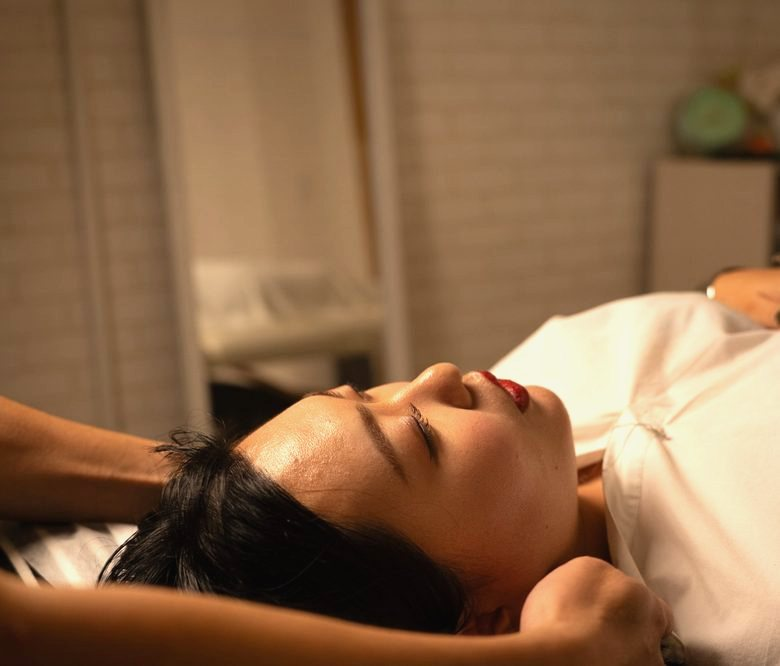
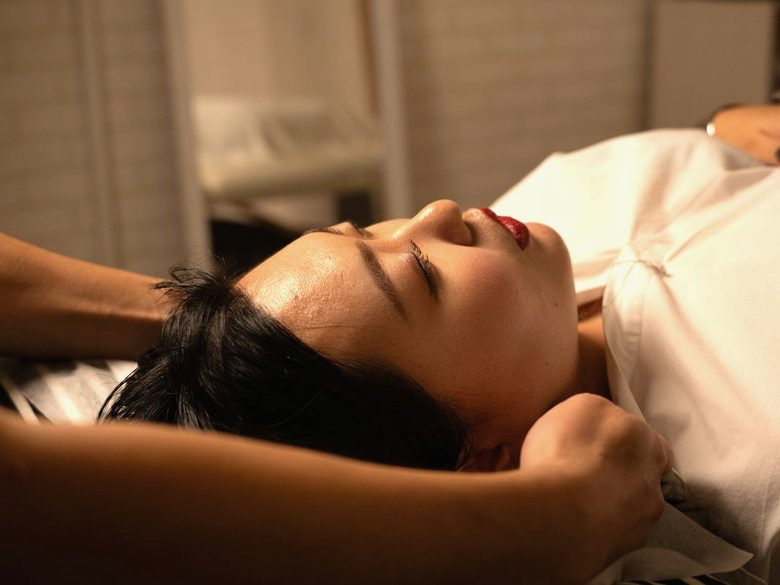
姿勢改善LP：5つの視点で5回見直し
- FV：承認済みの小見出しを戻し、説明文を外して料金とボタンを上へ。バッジに延べ11万人。写真を顔中心に切り直し
- 固定のLINEバーを最初から表示（FVと最後のボタンが見えている間だけ隠す）
- 悩みの順番を入れ替え、原因の冒頭に「意志が弱いからではありません」
- 比較図の見出しを短く、特徴の文章を短く、写真を3:2に
- お腹の項目に着替え・個室の一言、鍼の痛みに約95%（当院の実感）
- 料金枠に空きやすい時間帯、ボタン下の言葉を場所ごとに変更
- よくある質問を「何回通う？」から並べ替え、シェア画像を新しい配色で作り直し

Claude-Session: https://claude.ai/code/session_016xotFX1crAu7UbVk1hBxy1

diff --git a/shisei/index.html b/shisei/index.html
@@ -91,27 +91,30 @@
   .leaf { position: absolute; width: 96px; height: 128px; color: #DCC3B6; opacity: .55; pointer-events: none; }
   .leaf.l-fv { top: 34px; left: -18px; transform: rotate(-24deg); }
   .leaf.l-about { top: 16px; right: -16px; transform: scaleX(-1) rotate(-20deg); }
-  .leaf.l-faq { bottom: 10px; left: -20px; transform: rotate(-150deg); opacity: .4; }
+  .leaf.l-faq { top: 18px; left: -22px; transform: rotate(-28deg); opacity: .45; }
   .fv > *:not(.leaf) { position: relative; }
   .fv-top { display: flex; justify-content: space-between; align-items: center; padding: 10px 16px; font-size: 11px; color: var(--sub); }
   .fv-top .name { font-family: var(--serif); font-weight: 600; font-size: 14px; color: var(--ink); letter-spacing: .1em; }
-  .fv-catch { padding: 14px 18px 18px; text-align: center; }
+  .fv-catch { padding: 12px 18px 18px; text-align: center; }
   .fv-catch .target { display: inline-block; font-size: 13px; font-weight: 500; letter-spacing: .04em; color: var(--ink); border-bottom: 1px solid var(--coral); padding-bottom: 2px; line-height: 1.6; }
   .fv-catch h1 { margin-top: 12px; line-height: 1.3; }
   .fv-catch h1 .l1 { display: block; font-size: 31px; font-weight: 700; letter-spacing: .08em; color: var(--ink); }
   .fv-catch h1 .l2 { display: block; margin-top: 6px; font-family: var(--serif); font-weight: 600; font-size: 33px; letter-spacing: .06em; color: var(--rose); }
   .fv-photo { position: relative; }
   .fv-photo img { width: 100%; }
-  .badges { position: relative; display: flex; justify-content: center; align-items: center; margin-top: -58px; padding: 0 8px; }
-  .badge { width: 116px; height: 116px; flex: none; border-radius: 50%; background: rgba(255,255,255,.96); box-shadow: 0 2px 10px rgba(110,80,60,.12);
+  .badges { position: relative; display: flex; justify-content: center; align-items: center; margin-top: -52px; padding: 0 4px; }
+  .badge { width: 120px; height: 120px; flex: none; border-radius: 50%; background: rgba(255,255,255,.96); box-shadow: 0 2px 10px rgba(110,80,60,.12);
            display: flex; flex-direction: column; align-items: center; justify-content: center; text-align: center; }
-  .badge b { font-family: var(--serif); font-weight: 600; font-size: 19px; line-height: 1.25; letter-spacing: .04em; }
-  .badge small { margin-top: 4px; font-size: 9.5px; line-height: 1.4; color: var(--sub); letter-spacing: 0; }
+  .badge b { font-family: var(--serif); font-weight: 600; font-size: 20px; line-height: 1.25; letter-spacing: .04em; }
+  .badge small { margin-top: 4px; font-size: 10.5px; line-height: 1.4; color: var(--sub); letter-spacing: 0; }
+  .badge small.top { margin: 0 0 -2px; font-size: 11px; color: var(--ink); }
+  .badge b + small { margin-top: 3px; }
   .badges .x { flex: none; width: 22px; margin: 0 -8px; z-index: 1; color: var(--coral); font-size: 26px; font-weight: 300; text-align: center; line-height: 1; }
-  .fv-lead { margin: 22px 20px 0; text-align: center; font-size: 15px; font-weight: 500; line-height: 1.85; }
+  .fv-sub { margin-top: 12px; font-size: 15px; font-weight: 500; letter-spacing: .05em; }
+  .fv-sub b { color: var(--coral); font-weight: 700; }
 
   /* 料金の箱（Aの「初めての方限定」の箱にならう） */
-  .offer { margin: 22px 20px 18px; background: var(--white); border-radius: 10px; box-shadow: 0 3px 12px rgba(110,80,60,.12); overflow: hidden; text-align: center; }
+  .offer { margin: 24px 20px 18px; background: var(--white); border-radius: 10px; box-shadow: 0 3px 12px rgba(110,80,60,.12); overflow: hidden; text-align: center; }
   .offer-hd { background: var(--coral); color: #fff; font-weight: 700; font-size: 15px; letter-spacing: .08em; padding: 7px 10px; }
   .offer-bd { padding: 12px 14px 14px; }
   .offer .course { font-size: 13px; font-weight: 500; }
@@ -141,13 +144,14 @@
   .cause-photo { position: relative; margin-top: 26px; }
   .cause-body { position: relative; margin: -46px 18px 0; background: var(--base); padding: 26px 20px 26px; }
   .cause-body p + p { margin-top: 1em; }
+  .cause-body .lead { font-family: var(--serif); font-weight: 600; font-size: 17px; line-height: 1.7; letter-spacing: .04em; padding-bottom: 14px; border-bottom: 1px solid #E3D2C9; }
+  .cause-body .lead + p { margin-top: 14px; }
   .cause-body .em { font-weight: 700; }
   .cause-body .em span { color: var(--coral); }
 
   /* Aの「整体前／整体後」にならった比較図 */
-  .compare { padding: 44px 18px 8px; }
-  .compare .ttl { font-size: 21px; }
-  .cmp { display: grid; grid-template-columns: 1fr 1fr; gap: 10px; margin-top: 22px; }
+  .compare { padding: 40px 18px 8px; }
+  .cmp { display: grid; grid-template-columns: 1fr 1fr; gap: 10px; margin-top: 16px; }
   .cmp-card { background: var(--white); border: 1px solid #EADFD9; border-radius: 8px; padding: 12px 10px 14px; }
   .cmp-card .lbl { display: block; text-align: center; font-weight: 700; font-size: 14px; letter-spacing: .04em; padding: 3px 0; border-radius: 3px; color: #fff; background: var(--gray); }
   .cmp-card.after .lbl { background: linear-gradient(135deg, var(--gold1), var(--gold2)); }
@@ -179,16 +183,17 @@
   .trio .c2 { width: 124px; height: 124px; }
   .trio .x { flex: none; width: 20px; margin: 0 -7px; z-index: 2; color: var(--coral); font-size: 26px; font-weight: 300; text-align: center; line-height: 1; }
   .about .intro { margin: 18px 22px 0; text-align: center; font-size: 15px; line-height: 1.95; }
-  .feat { margin-top: 40px; }
+  .feat { margin-top: 36px; }
   .feat-photo { width: 88%; }
   .feat.rev .feat-photo { margin-left: auto; }
-  .feat-photo img { width: 100%; aspect-ratio: 4 / 3; object-fit: cover; }
-  .feat-photo img.tall { object-position: 50% 35%; }
+  .feat-photo img { width: 100%; aspect-ratio: 3 / 2; object-fit: cover; }
+  .feat-photo img.tall { object-position: 50% 30%; }
   .feat-box { position: relative; width: 86%; margin: -40px 0 0 auto; background: var(--white); padding: 22px 20px 24px; }
   .feat.rev .feat-box { margin: -40px auto 0 0; }
   .feat-box .tag { display: inline-block; background: var(--base2); color: var(--sub); font-size: 12.5px; font-weight: 500; padding: 1px 10px; letter-spacing: .06em; }
   .feat-box h3 { margin-top: 8px; font-size: 18px; line-height: 1.6; letter-spacing: .05em; }
   .feat-box p { margin-top: 10px; font-size: 14px; line-height: 1.95; }
+  .feat-box .aside { margin-top: 10px; padding: 8px 12px; background: var(--base); font-size: 12.5px; line-height: 1.7; }
   .feat-box .key { position: absolute; right: -6px; top: -18px; width: 66px; height: 66px; border-radius: 50%; background: linear-gradient(135deg, var(--gold1), var(--gold2)); color: #fff; display: flex; align-items: center; justify-content: center; text-align: center; font-size: 11px; font-weight: 700; line-height: 1.35; letter-spacing: .02em; }
 
   /* ⑤ 初回60分の流れ */
@@ -268,7 +273,8 @@
   .price .how ol { display: grid; grid-template-columns: 1fr 12px 1fr 12px 1fr; align-items: center; margin-top: 6px; }
   .price .how li { background: var(--base2); border-radius: 6px; padding: 6px 2px; font-size: 12px; font-weight: 700; line-height: 1.45; }
   .price .how li.ar { background: none; padding: 0; width: 0; height: 0; border-top: 6px solid transparent; border-bottom: 6px solid transparent; border-left: 7px solid var(--coral); justify-self: center; }
-  .price .cta { margin-top: 20px; padding: 0; }
+  .price .cta { margin-top: 18px; padding: 0; }
+  .price .avail { margin-bottom: 12px; font-size: 12.5px; line-height: 1.7; color: var(--sub); }
   .price .btn { font-size: 15.5px; letter-spacing: .02em; padding-left: 14px; }
 
   /* ⑨ 院長 */
@@ -352,18 +358,18 @@
     <div class="fv-catch">
       <p class="target">デスクワークで、猫背・巻き肩が戻ってしまう方へ</p>
       <h1><span class="l1">意識しなくても、</span><span class="l2">背すじがラクな体へ。</span></h1>
+      <p class="fv-sub">背中だけでなく、<b>お腹まわり</b>から整えます。</p>
     </div>
     <figure class="fv-photo">
-      <img src="/shisei/images/fv.jpg" alt="施術台で、院長に首と頭を支えられてくつろいでいる女性" width="780" height="666">
+      <img src="/shisei/images/fv.jpg" alt="施術台で、院長に首と頭を支えられてくつろいでいる女性" width="780" height="585" fetchpriority="high">
     </figure>
     <div class="badges" aria-label="博多Hakaseの3つの特徴">
-      <div class="badge"><b>国家資格</b><small>鍼灸師歴18年の<br>院長が担当</small></div>
+      <div class="badge"><small class="top">延べ</small><b>11万人</b><small>国家資格・歴18年<br>の院長が担当</small></div>
       <span class="x" aria-hidden="true">×</span>
-      <div class="badge"><b>鍼と<br>整体</b><small>両方できるから<br>選ばなくていい</small></div>
+      <div class="badge"><b>鍼と<br>整体</b><small>その日の体に<br>合わせて組み合わせ</small></div>
       <span class="x" aria-hidden="true">×</span>
-      <div class="badge"><b>お腹<br>から</b><small>背中だけでなく<br>お腹まわりも整える</small></div>
+      <div class="badge"><b>お腹<br>から</b><small>姿勢の相談でも<br>お腹を確かめる</small></div>
     </div>
-    <p class="fv-lead">背中を伸ばしても戻ってしまうのは、<br>お腹まわりがかたいままだから<br>かもしれません。</p>
     <div class="offer">
       <p class="offer-hd">はじめての方</p>
       <div class="offer-bd">
@@ -374,7 +380,7 @@
     </div>
     <div class="cta">
       <a class="btn" data-line data-cta="fv" href="#line"><svg aria-hidden="true"><use href="#i-talk"/></svg>LINEで予約・相談する</a>
-      <p class="btn-note">予約の前に、相談だけでも大丈夫です。返信は院長本人です。</p>
+      <p class="btn-note">予約の前に、相談だけでも大丈夫です。<br>返信は院長本人です。</p>
     </div>
   </section>
 
@@ -383,14 +389,14 @@
     <div class="worry-card">
       <h2 class="ttl">こんな<span class="hl">お悩み</span><br>ありませんか？</h2>
       <ul class="checks">
-        <li>写真に写った横姿にドキッとした</li>
         <li>背すじを伸ばしても、気づくと丸まっている</li>
+        <li>写真に写った横姿にドキッとした</li>
         <li>肩が前に巻いて、首が前に出ている</li>
+        <li>整体に通っても、しばらくすると戻る</li>
         <li>夕方になると、首と肩が重い</li>
         <li>反り腰で、立っていると腰がつらい</li>
-        <li>事故のあとから、首まわりの不調が抜けない</li>
         <li>産後、抱っこで背中が丸まったまま</li>
-        <li>整体に通っても、しばらくすると戻る</li>
+        <li>事故のあとから、首まわりの不調が抜けない</li>
       </ul>
     </div>
     <div class="after">
@@ -399,7 +405,7 @@
     </div>
     <div class="cta">
       <a class="btn" data-line data-cta="after-worry" href="#line"><svg aria-hidden="true"><use href="#i-talk"/></svg>姿勢の悩みをLINEで相談する</a>
-      <p class="btn-note">返信は院長本人です。</p>
+      <p class="btn-note">当てはまったものを、そのまま送ってください。</p>
     </div>
   </section>
 
@@ -408,9 +414,10 @@
     <p class="slash">伸ばしても、戻ってしまう</p>
     <h2 class="big">その原因は<br><span class="gold">“お腹まわり”</span><small>かもしれません。</small></h2>
     <figure class="cause-photo">
-      <img src="/shisei/images/kensa.jpg" alt="仰向けでお腹を指で確かめ、ペンで印をつけている様子" width="704" height="563" loading="lazy">
+      <img src="/shisei/images/kensa.jpg" alt="仰向けでお腹を指で確かめ、ペンで印をつけている様子" width="704" height="413" loading="lazy">
     </figure>
     <div class="cause-body">
+      <p class="lead">伸ばしても戻るのは、<br>意志が弱いからではありません。</p>
       <p>デスクワークやスマホで前かがみの時間が長いと、体の前側、お腹まわりが縮こまってかたくなります。</p>
       <p class="em">前側がかたいままだと、背中をいくら伸ばしても、<span>また前に引き戻されます。</span></p>
       <p>だから博多Hakaseでは、骨格だけでなく、お腹まわりから姿勢をみます。</p>
@@ -419,7 +426,7 @@
 
   <!-- Aの「整体前／整体後」にならった比較図 -->
   <section class="compare">
-    <h2 class="ttl">お腹がかたいままだと<br>こうなります</h2>
+    <p class="slash">図で見ると</p>
     <div class="cmp">
       <div class="cmp-card before">
         <span class="lbl">お腹がかたいまま</span>
@@ -468,7 +475,7 @@
   <section class="whole">
     <h2 class="ttl">首・肩・腰、<br>ひとつずつ通わなくていい。</h2>
     <div class="parts" aria-hidden="true"><span>首</span><span>肩</span><span class="on">お腹</span><span>腰</span></div>
-    <p class="txt">猫背と首のこりと腰の重さは、<br>別々の悩みに見えて、<br>つながっていることがあります。<br>60分のなかで、まとめてみます。</p>
+    <p class="txt">猫背と首のこりと腰の重さは、<br>別々の悩みに見えて、<br>つながっていることがあります。</p>
     <p class="motto">症状がいくつあっても、<br>身体はひとつ。<br>だから、すべてまとめてみます。</p>
   </section>
 
@@ -479,7 +486,7 @@
     <div class="trio">
       <div class="c c1"><img src="/shisei/images/zentai.jpg" alt="" width="704" height="880" loading="lazy"><span>全体を<br>みる</span></div>
       <span class="x" aria-hidden="true">×</span>
-      <div class="c c2"><img src="/shisei/images/kensa.jpg" alt="" width="704" height="563" loading="lazy"><span>お腹を<br>みる</span></div>
+      <div class="c c2"><img src="/shisei/images/kensa.jpg" alt="" width="704" height="413" loading="lazy"><span>お腹を<br>みる</span></div>
       <span class="x" aria-hidden="true">×</span>
       <div class="c c3"><img src="/shisei/images/seitai.jpg" alt="" width="704" height="469" loading="lazy"><span>鍼と<br>整体</span></div>
     </div>
@@ -501,6 +508,7 @@
         <span class="tag">お腹をみる</span>
         <h3>姿勢の相談でも、<br>お腹をゆるめる鍼をします</h3>
         <p>仰向けでお腹のかたさを確かめてから鍼をします。姿勢の相談でお腹？と思われるかもしれませんが、Hakaseではここから始めます。</p>
+        <p class="aside">着替えは、お客様に合わせて対応します。施術は個室です。</p>
       </div>
     </article>
 
@@ -509,7 +517,7 @@
       <div class="feat-box">
         <span class="tag">鍼と整体</span>
         <h3>ボキボキしない整体と、<br>細い鍼を組み合わせます</h3>
-        <p>筋膜を整える整体は、強い力を使いません。手技の引き出しが多いので、その日の体に合わせて選びます。鍼が苦手な方は整体だけでも受けられます（変化に時間がかかることはあります）。</p>
+        <p>筋膜を整える整体は、強い力を使いません。手技の引き出しが多いので、その日の体に合わせて選びます。</p>
       </div>
     </article>
   </section>
@@ -580,7 +588,7 @@
       <figcaption>鍼はすべて使い捨て。髪の毛より細いものから選びます。</figcaption>
     </figure>
     <div class="qa">
-      <div class="item"><b>痛くないですか？</b><p>「蚊に刺されたくらい」と言われることが多いです。その日の状態に合わせて、細い鍼から選びます。</p></div>
+      <div class="item"><b>痛くないですか？</b><p>「蚊に刺されたくらい」と言われることが多く、受けた方の約95%が「これなら大丈夫」とおっしゃいます（当院の実感です）。その日の状態に合わせて、細い鍼から選びます。</p></div>
       <div class="item"><b>衛生面が気になります</b><p>鍼はすべて使い捨てです。消毒も、しみにくい塩素系の薬剤を使っています。</p></div>
       <div class="item"><b>内出血はしますか？</b><p>100人に5人ほどです。出た場合も、10〜14日ほどで引きます。</p></div>
       <div class="item"><b>それでも、鍼がこわいです</b><p>刺さない鍼、お灸、整体だけでもできます。整体だけだと、変化に時間がかかることはあります。</p></div>
@@ -615,8 +623,9 @@
         </ol>
       </div>
       <div class="cta">
+        <p class="avail">平日の昼は比較的空いています。<br>火・水の夜は埋まりやすいので、お早めに。</p>
         <a class="btn" data-line data-book data-cta="after-price" href="#line"><svg aria-hidden="true"><use href="#i-cal"/></svg>LINEで空いている日を見る</a>
-        <p class="btn-note">保険は使えない自費の施術です。</p>
+        <p class="btn-note">日にちが決まっていなくても、<br>相談だけで大丈夫です。</p>
       </div>
     </div>
   </section>
@@ -634,8 +643,8 @@
       <span><b>国家資格</b>はり師・きゅう師</span>
     </div>
     <div class="msg">
-      <p>整骨院に通っても変わらなかった痛みが、私自身にありました。どんな症状にも向き合えるように、勉強に時間とお金をかけてきたのは、そのためです。</p>
-      <p>4人の子どもの父で、妻も施術者です。家のことや子どものことで、女性は自分の体をあと回しにしがちだと、家族を見ていて感じます。</p>
+      <p>整骨院に通っても変わらなかった痛みが、私自身にありました。だから、どんな症状にも向き合えるように、勉強に時間とお金をかけてきました。</p>
+      <p>4人の子どもの父で、妻も施術者です。家のことや子どものことで、女性は自分の体をあと回しにしがちだと、家族を見ていて感じます。ここにいる60分は、ご自分の体のことだけ考えてください。</p>
       <p>猫背だけ、腰だけ、とは考えません。気になるところは、全部まとめて教えてください。</p>
     </div>
     <div class="nots"><b>しないこと</b>痛い施術、危険な施術、望まれていない施術。施術中も、痛くないか、寒くないかを聞きながら進めます。</div>
@@ -652,14 +661,14 @@
     <h2 class="ttl">よくあるご質問</h2>
     <p class="script">Question &amp; Answer</p>
     <div class="faq-list">
-      <details><summary>妊娠中・産後でも受けられますか？</summary><p>体の状態によって変わるので、まずLINEでご相談ください。</p></details>
-      <details><summary>セルフケアは教えてもらえますか？</summary><p>はい。セルフケアと、帰るときに気をつけることもお伝えします。</p></details>
       <details><summary>何回くらい通えばいいですか？</summary><p>姿勢のクセや体の状態で変わるので、初回に体を見てから目安をお伝えします。</p></details>
       <details><summary>着替えは必要ですか？</summary><p>お客様に合わせて対応します。</p></details>
       <details><summary>鍼が苦手でも受けられますか？</summary><p>整体だけでも受けられます。</p></details>
+      <details><summary>予約の前に相談できますか？</summary><p>LINEでできます。返信は院長本人です。日にちが決まっている方は、LINEの予約カレンダーからそのまま予約できます。</p></details>
+      <details><summary>セルフケアは教えてもらえますか？</summary><p>はい。セルフケアと、帰るときに気をつけることもお伝えします。</p></details>
       <details><summary>保険は使えますか？</summary><p>使えません。自費の施術です。初回は9,800円（税込）で、追加料金はかかりません。</p></details>
       <details><summary>当日お風呂に入ってもいいですか？</summary><p>入って大丈夫です。</p></details>
-      <details><summary>予約の前に相談できますか？</summary><p>LINEでできます。返信は院長本人です。日にちが決まっている方は、LINEの予約カレンダーからそのまま予約できます。</p></details>
+      <details><summary>妊娠中・産後でも受けられますか？</summary><p>体の状態によって変わるので、まずLINEでご相談ください。</p></details>
     </div>
   </section>
 
@@ -717,7 +726,7 @@
     });
   });
 
-  // 固定バー：FVのボタンを通り過ぎたら出す。最後のボタンが見えている間は隠す
+  // 固定バー：最初から出す。FVのボタンと最後のボタンが画面に見えている間だけ隠す
   var sticky = document.querySelector(".sticky");
   var fvBtn = document.querySelector('[data-cta="fv"]');
   var finalBtn = document.querySelector('[data-cta="final"]');
@@ -727,7 +736,8 @@
     var vh = window.innerHeight;
     var fv = fvBtn.getBoundingClientRect();
     var fin = finalBtn.getBoundingClientRect();
-    var show = fv.bottom < 0 && !(fin.top < vh && fin.bottom > 0);
+    var inView = function (r) { return r.top < vh && r.bottom > 0; };
+    var show = !inView(fv) && !inView(fin);
     sticky.classList.toggle("show", show);
     sticky.setAttribute("aria-hidden", show ? "false" : "true");
     sticky.querySelector("a").tabIndex = show ? 0 : -1;
